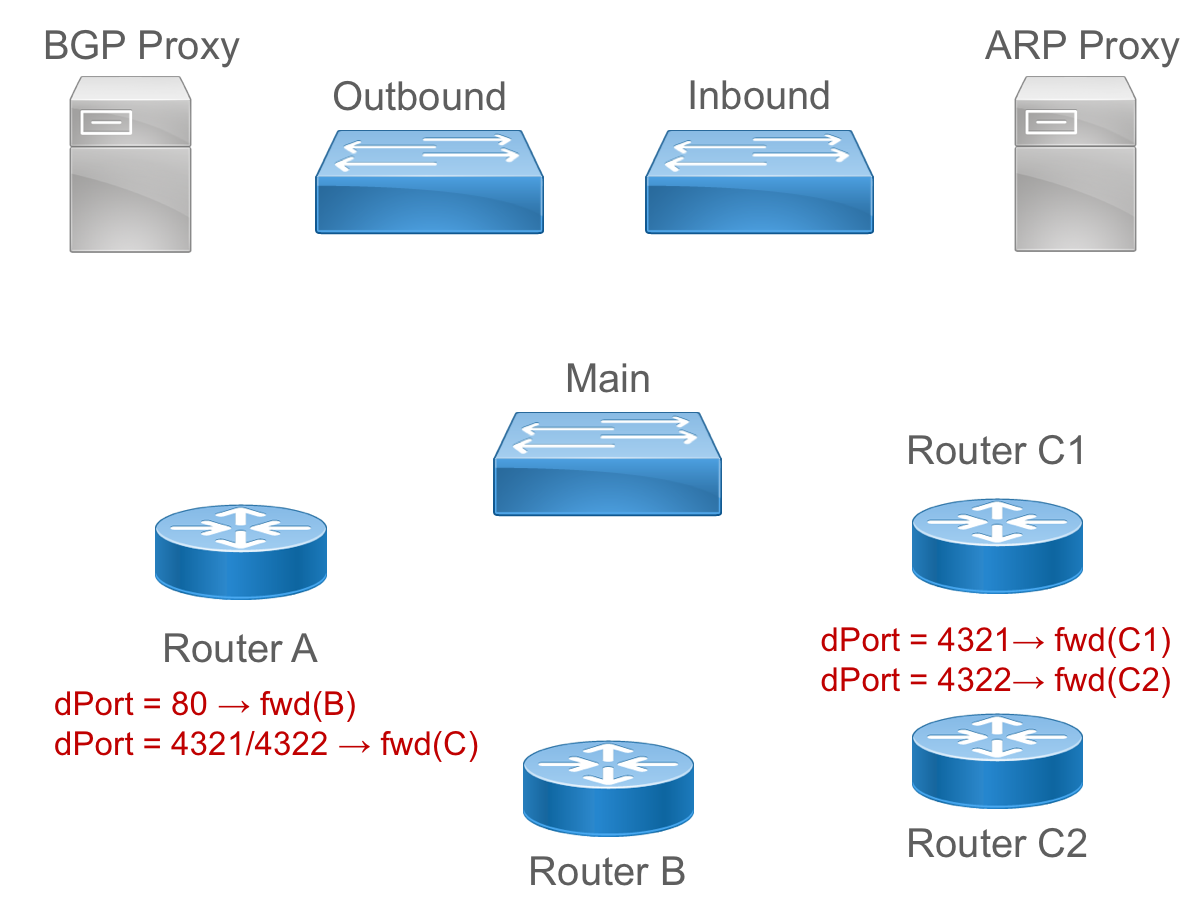
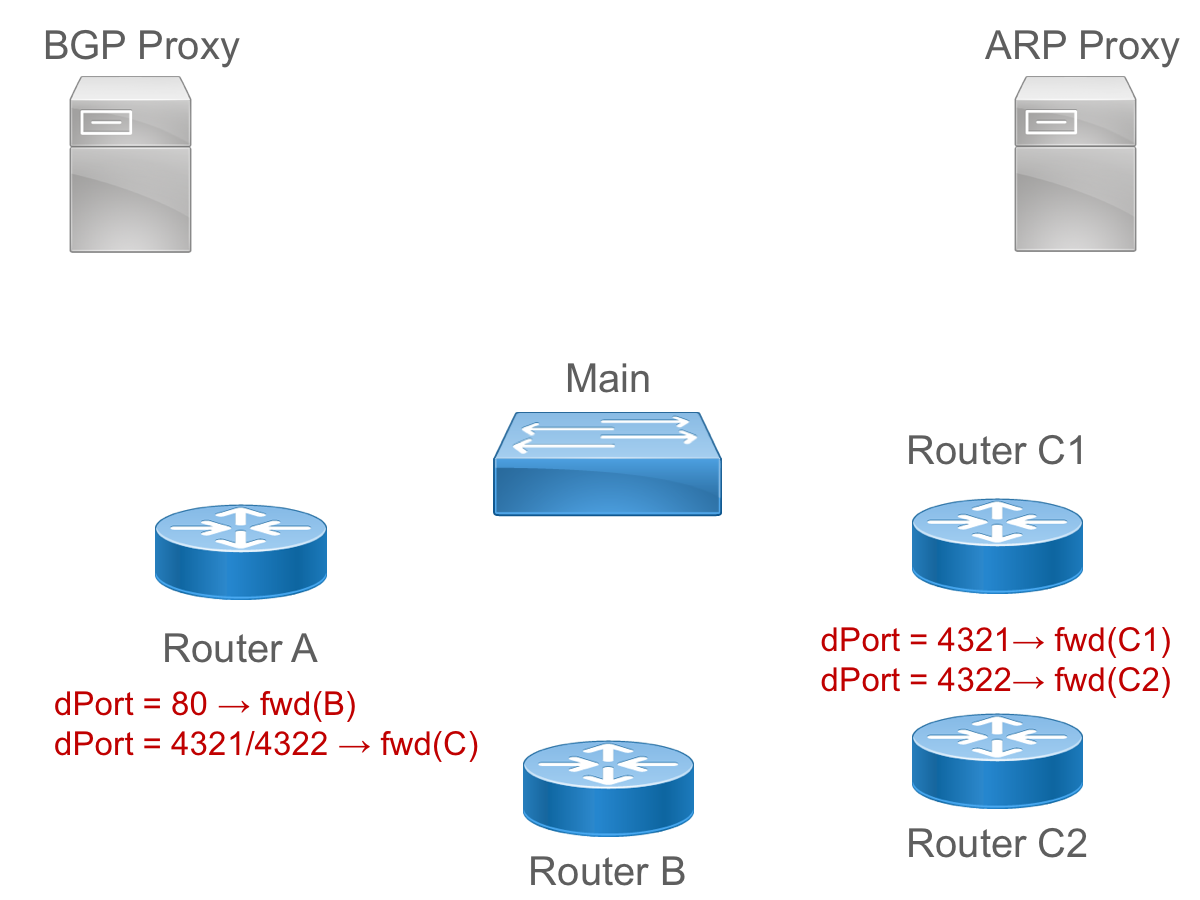
Ignore Inbound/Outbound switches and flows

Changed region(s): [[0.5242, 0.0933, 0.74, 0.28], [0.2467, 0.0933, 0.4625, 0.28]]

diff --git a/visualization/log_replay/replay.py b/visualization/log_replay/replay.py
@@ -125,6 +125,10 @@ class LogReplay(object):
             # publish data
             for d in data:
         		message = "|".join(d)
+                        if (message.find('InBound') > 0 or
+                            message.find('Outbound') > 0):
+        	              self.logger.debug('Skipping: ' + message)
+                              continue;
         		self.logger.debug(message)
         		self.publisher.publish(message)
 
